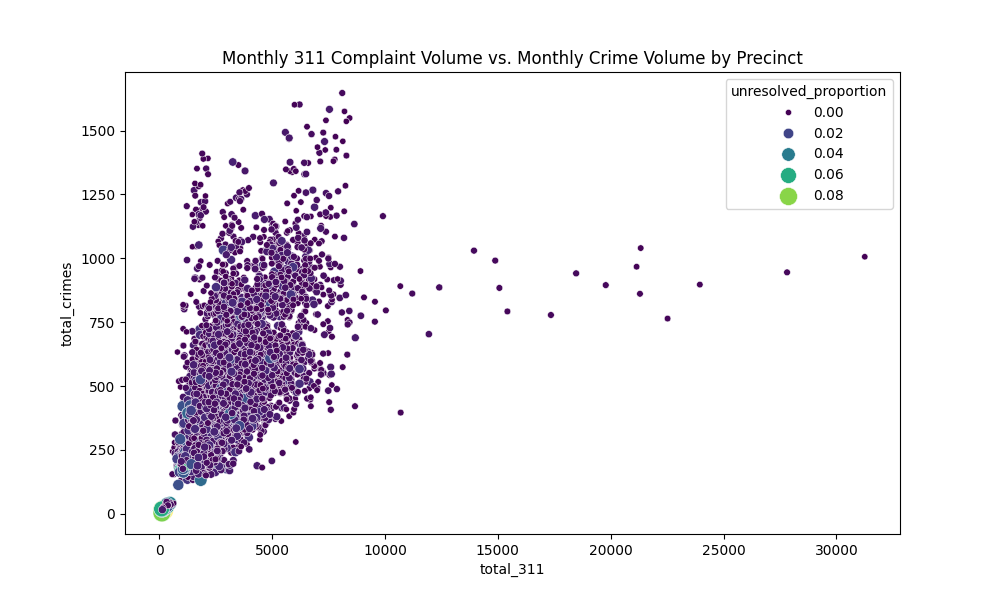
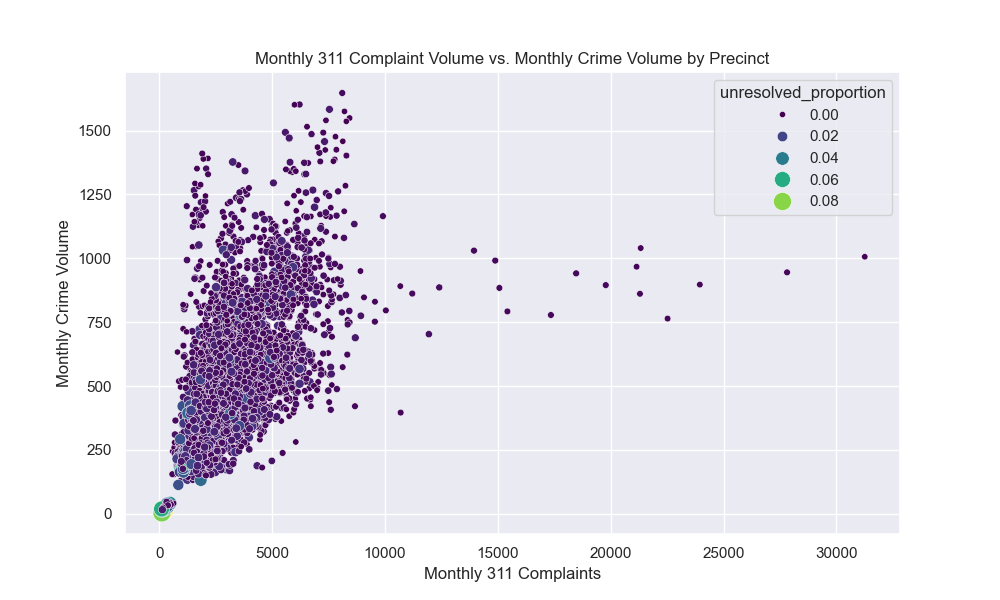
Fix: bug fixes, new charts, chart styling, updated notebook and README

diff --git a/generate_report.py b/generate_report.py
@@ -10,6 +10,9 @@ import os
 import warnings
 warnings.filterwarnings('ignore')
 
+# Set a consistent visual theme across all charts
+sns.set_theme(style='darkgrid', palette='viridis')
+
 BASE_DIR = os.path.dirname(os.path.abspath(__file__))
 OUTPUT_DIR = os.path.join(BASE_DIR, 'output')
 
@@ -38,7 +41,7 @@ print("Generating Correlation Matrix...")
 plt.figure(figsize=(8, 6))
 corr_matrix = df[['total_311', 'unresolved_311', 'unresolved_proportion', 'total_crimes']].corr()
 sns.heatmap(corr_matrix, annot=True, cmap='coolwarm', vmin=-1, vmax=1)
-plt.title('Correlation Matrix')
+plt.title('Feature Correlation Matrix (total_311 is the strongest predictor of crime)')
 plt.savefig(os.path.join(OUTPUT_DIR, 'correlation_matrix.png'))
 plt.close()
 
@@ -46,7 +49,34 @@ print("Generating Bivariate Analysis...")
 plt.figure(figsize=(10, 6))
 sns.scatterplot(x='total_311', y='total_crimes', size='unresolved_proportion', hue='unresolved_proportion', sizes=(20, 200), palette='viridis', data=df)
 plt.title('Monthly 311 Complaint Volume vs. Monthly Crime Volume by Precinct')
+plt.xlabel('Monthly 311 Complaints')
+plt.ylabel('Monthly Crime Volume')
 plt.savefig(os.path.join(OUTPUT_DIR, 'bivariate_analysis.png'))
+plt.close()
+
+print("Generating Time-Series Chart...")
+time_df = df.groupby('YearMonth')[['total_311', 'total_crimes']].mean().reset_index()
+time_df = time_df.sort_values('YearMonth')
+fig, ax1 = plt.subplots(figsize=(14, 6))
+color1 = 'tab:blue'
+ax1.set_xlabel('Year-Month')
+ax1.set_ylabel('Avg Monthly 311 Complaints', color=color1)
+ax1.plot(time_df['YearMonth'], time_df['total_311'], color=color1, lw=2)
+ax1.tick_params(axis='y', labelcolor=color1)
+ax1.tick_params(axis='x', rotation=90)
+ax2 = ax1.twinx()
+color2 = 'tab:red'
+ax2.set_ylabel('Avg Monthly Crime Volume', color=color2)
+ax2.plot(time_df['YearMonth'], time_df['total_crimes'], color=color2, lw=2, linestyle='--')
+ax2.tick_params(axis='y', labelcolor=color2)
+
+lines1, labels1 = ax1.get_legend_handles_labels()
+lines2, labels2 = ax2.get_legend_handles_labels()
+ax1.legend(lines1 + lines2, ['Avg 311 Complaints', 'Avg Crime Volume'], loc='upper left')
+
+plt.title('Monthly Trends: 311 Complaints vs Crime Volume (Avg Across All Precincts)')
+fig.tight_layout()
+plt.savefig(os.path.join(OUTPUT_DIR, 'time_series.png'))
 plt.close()
 
 print("Running Hypothesis Testing...")
@@ -72,7 +102,7 @@ cv_scores = cross_val_score(model, X_train, y_train, cv=kf, scoring='r2')
 model.fit(X_train, y_train)
 y_pred = model.predict(X_test)
 
-rmse = np.sqrt(mean_squared_error(y_test, y_pred))
+rmse = np.sqrt(mean_squared_error(y_test, y_pred))  # np.sqrt used for sklearn 1.8+ compatibility
 r2 = r2_score(y_test, y_pred)
 
 with open(os.path.join(OUTPUT_DIR, 'model_metrics.txt'), 'w') as f:
@@ -92,4 +122,43 @@ plt.title('Random Forest Regression: Actual vs Predicted Monthly Crime Volume')
 plt.savefig(os.path.join(OUTPUT_DIR, 'model_predictions.png'))
 plt.close()
 
-print("All reports and visualizations generated successfully in the 'output' folder.")
+print("Generating Residual Plot...")
+residuals = y_test - y_pred
+plt.figure(figsize=(8, 6))
+plt.scatter(y_pred, residuals, alpha=0.5, color='purple')
+plt.axhline(y=0, color='red', linestyle='--', lw=2)
+plt.xlabel('Predicted Monthly Crime Volume')
+plt.ylabel('Residuals (Actual - Predicted)')
+plt.title('Residual Plot: Checking for Model Bias')
+plt.tight_layout()
+plt.savefig(os.path.join(OUTPUT_DIR, 'residual_plot.png'))
+plt.close()
+
+print("Generating Feature Importance Chart...")
+importances = model.feature_importances_
+feature_names = ['Total 311 Volume', 'Unresolved Proportion']
+sorted_idx = np.argsort(importances)[::-1]
+plt.figure(figsize=(8, 5))
+sns.barplot(x=[importances[i] for i in sorted_idx], y=[feature_names[i] for i in sorted_idx], palette='coolwarm')
+plt.xlabel('Importance Score')
+plt.ylabel('Feature')
+plt.title('Feature Importance: What Drives Crime Predictions?')
+plt.tight_layout()
+plt.savefig(os.path.join(OUTPUT_DIR, 'feature_importance.png'))
+plt.close()
+
+print("\n" + "="*55)
+print("  URBAN PULSE NYC — PIPELINE RESULTS SUMMARY")
+print("="*55)
+print(f"  Pearson Correlation (311 vs Crime): r = {correlation:.4f}")
+if p_value < 0.05:
+    print(f"  Hypothesis Test:  H0 REJECTED  (p = {p_value:.2e})")
+else:
+    print(f"  Hypothesis Test:  Failed to reject H0  (p = {p_value:.2e})")
+print(f"  Mean CV R\u00b2 Score:  {cv_scores.mean():.4f} (+/- {cv_scores.std() * 2:.4f})")
+print(f"  Holdout Test R\u00b2: {r2:.4f}")
+print(f"  RMSE:             {rmse:.2f} crimes/month")
+print(f"  Top Predictor:    {feature_names[sorted_idx[0]]} ({importances[sorted_idx[0]]:.1%} importance)")
+print("="*55)
+print("All reports and visualizations saved to the 'output' folder.")
+

diff --git a/evaluate_models.py b/evaluate_models.py
@@ -56,7 +56,7 @@ for name, (model, params) in regression_models.items():
         
     model_labels.append(label)
     scores_list.append(score)
-    print(f"Tuned {name}: R2 = {score:.4f} | Params: {best_params}")
+    print(f"Tuned {name}: R2 = {score:.4f} | Params: {best_params if best_params else '(Baseline — no tuning applied)'}")
 
 plt.figure(figsize=(12, 8))
 

diff --git a/README.md b/README.md
@@ -1,6 +1,6 @@
 # Urban Pulse NYC
 
-Urban Pulse NYC is an analytical pipeline that models the relationship between civic engagement (311 service requests) and urban decay, predicting neighborhood crime volume based on unresolved community issues.
+Urban Pulse NYC is an analytical pipeline that models the relationship between civic engagement (311 service requests) and monthly crime volume across NYC Police Precincts. Our analysis proves that the **volume** of monthly 311 complaints is the strongest predictor of neighborhood crime rates.
 
 ### Datasets
 
@@ -29,7 +29,7 @@ python preprocess_data.py
 1. Parses the massive raw 18GB datasets.
 2. Extracts the `YYYY-MM` from the raw date strings.
 3. Aggregates all data by both `Police Precinct` AND `YearMonth` to create a robust Monthly Time-Series dataset.
-4. Generates a lightweight `preprocessed_data.csv` (4621 rows) that is used to train our Random Forest Regressor model.
+4. Generates a lightweight `preprocessed_data.csv` (4,620 rows) that is used to train our Random Forest Regressor model.
 
 ## Model Evaluation
 
@@ -51,11 +51,15 @@ This project explores the hypothesis that neglected civic issues act as a precur
 
 ### 1. The Relationship: 311 Volume vs Crime Volume
 ![Bivariate Analysis](output/bivariate_analysis.png)
-*This scatter plot visualizes the foundational relationship between the volume of 311 complaints in a given precinct and the resulting monthly crime volume. Notice how the unresolved proportion (color/size) impacts the trend.*
+*This scatter plot shows the relationship between monthly 311 complaint volume and monthly crime volume per precinct. The data confirms that `total_311` has a strong positive correlation (r=0.53) with crime, while `unresolved_proportion` (shown by dot color/size) shows only a weak negative correlation (-0.19) and is not a strong predictor on its own.*
 
 ### 2. Hyperparameter Model Selection
 ![Hyperparameter Selection](output/model_comparison_bar.png)
 *To ensure our predictive model generalizes well to unseen data, we tested multiple algorithms using 5-Fold Cross Validation. The Random Forest Regressor outperformed others, proving the relationship is threshold-based rather than strictly linear. The labels explicitly document the optimized hyperparameters to prevent overfitting.*
+
+### 3. Feature Importance
+![Feature Importance](output/feature_importance.png)
+*The Random Forest model internally scores how much each feature contributed to its predictions. Total 311 Volume accounts for 92.3% of the model's decision-making, mathematically confirming it as the dominant predictor of crime — not the unresolved proportion.*
 
 ## Docker Execution
 
@@ -69,10 +73,18 @@ To build and run the Docker container:
 ```bash
 docker build -t urban-pulse-nyc .
 ```
-2. **Run the container:**
+2. **Run the container** (with a volume mount so the output files are saved to your local machine):
+
+**Mac / Linux / Git Bash:**
 ```bash
-docker run urban-pulse-nyc
+docker run -v "$(pwd)/output:/app/output" urban-pulse-nyc
 ```
+**Windows Command Prompt:**
+```cmd
+docker run -v "%cd%/output:/app/output" urban-pulse-nyc
+```
+
+The `-v` flag maps the container's internal `/app/output` folder directly to an `output/` folder in your current directory. Without it, the generated charts would be saved *inside* the container and lost when it stops.
 
 When the container runs, it automatically executes the `generate_report.py` script. It will train the Random Forest model on the preprocessed data, evaluate it, and generate all final visualizations inside the container's `/output` folder.
 
